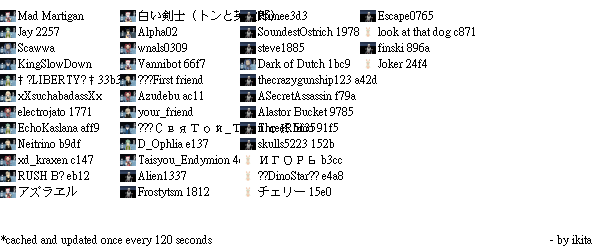
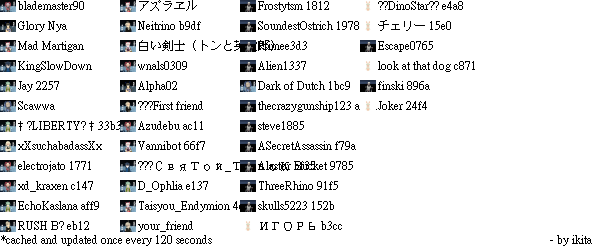
offset

Changed region(s): [[0.0, 0.0, 0.81, 0.952], [0.39, 0.868, 0.57, 0.924]]

diff --git a/time-in-image.js b/time-in-image.js
@@ -170,7 +170,7 @@ const make8x8ImageBufferWith4Colors = worldid=>{
 						async.forEachOf(foundUsers, function (value2, key2, callback2) {
 							var name = value2.name;
 							var pic = value2.img;
-							image.print(font, 0+Math.floor(key2/12) *(120) + 18, 10+(key2%12)*16, name);
+							image.print(font, 0+Math.floor(key2/12) *(120) + 18, 0+(key2%12)*19, name);
 							console.log(name);
 							fs.appendFile("temp.txt", name + ":::" + pic + "\r\n", (err) => {
 								if (err) console.log(err);
@@ -195,7 +195,7 @@ const make8x8ImageBufferWith4Colors = worldid=>{
 												.quality(60); // set JPEG quality
 												// console.log("written"); //picture path
 												
-											  image.composite(lenna, 0+Math.floor(key2/12) *(120), 10+(key2%12)*16, {
+											  image.composite(lenna, 0+Math.floor(key2/12) *(120), 0+(key2%12)*19, {
 													mode: Jimp.BLEND_SOURCE_OVER,
 													opacityDest: 1,
 													opacitySource: 1
